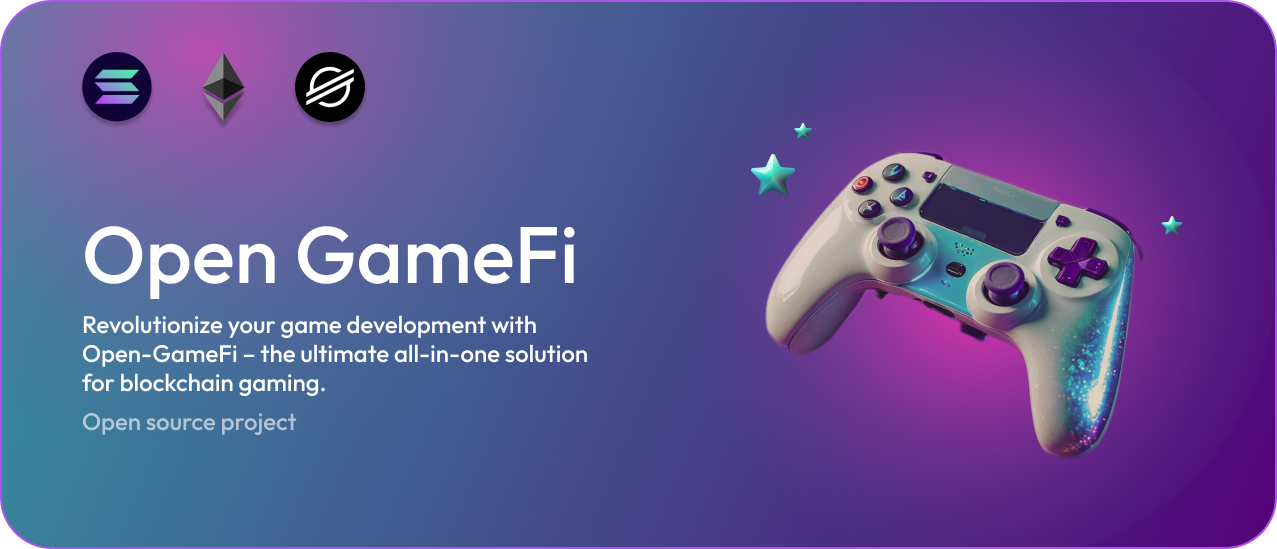
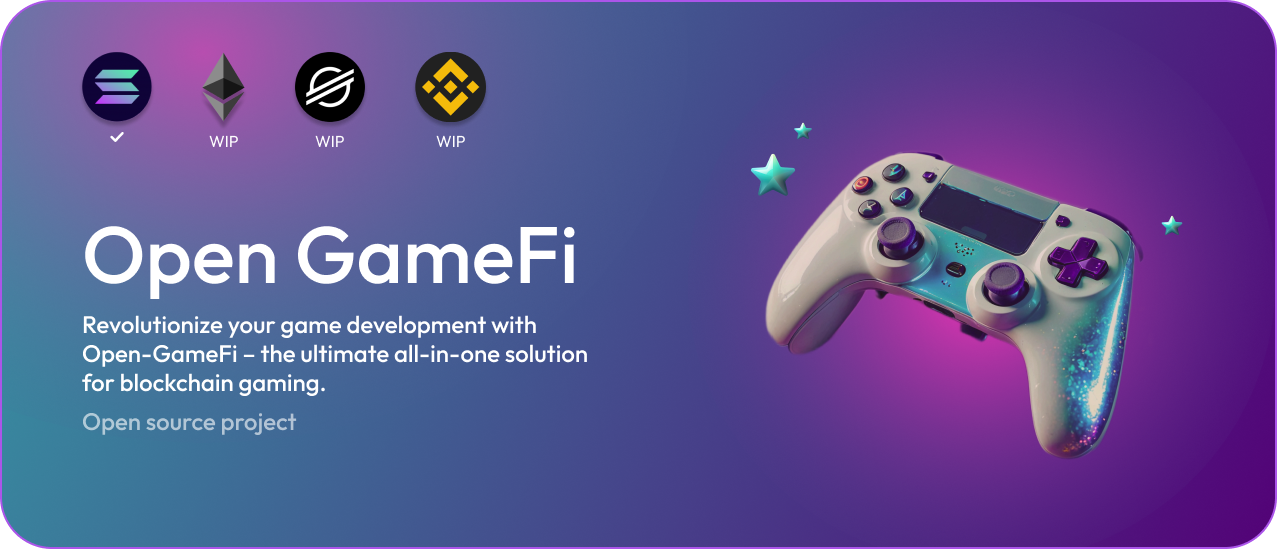
Updated readme

Changed region(s): [[0.3054, 0.0929, 0.397, 0.2787], [0.2443, 0.2477, 0.2749, 0.2787], [0.1527, 0.2477, 0.1832, 0.2787]]

diff --git a/stellar-pack/stellar-back/src/rooms/MainRoom.ts b/stellar-pack/stellar-back/src/rooms/MainRoom.ts
@@ -77,7 +77,10 @@ export class MainRoom extends Room<MainRoomState> {
                         const now = new Date();
                         userState.currency += Math.ceil(((now.getTime() - userState.user.lastPresence.getTime())/1000) * (userState.generators) * (1 + userState.user.reward));
                         userState.user.lastPresence = now;
-                        userState.user.nft = (await getNftBalance(userToLogin.secretId, process.env.NFT)) > 0;
+                        if (process.env.NFT_ON == "true")
+                            userState.user.nft = (await getNftBalance(userToLogin.secretId, process.env.NFT)) > 0;
+                        else
+                            userState.user.nft = false;
                         await saveUserToDb(userState.user);
                         client.send("connectWallet",{
                             publicKey: userToLogin.publicId,

diff --git a/README.md b/README.md
@@ -1,112 +1,32 @@
 ![alt text](https://github.com/yanis7774/Open-GameFi/blob/main/misc/GameFiBanner.png?raw=true)
 ![alt text](https://github.com/yanis7774/Open-GameFi/blob/main/misc/textBanner.png?raw=true)
 
-# Setup
-To setup, you need to do the following:
+# Open GameFi
 
-- Deploy main contract
-- Deploy token contract (if custom token is needed)
-- Launch backend
+Welcome to the Open-GameFi repository! This collection is your gateway to building and deploying decentralized game applications across multiple blockchain networks. Whether you're a seasoned developer or just starting your journey in the world of blockchain, our starter kit offers diverse project examples tailored to various networks, all neatly organized within this repository.
 
-## Prerequisites
+## What's Inside?
 
-Ensure you have the following software installed on your system:
+Explore a variety of project examples, each housed in its own folder, showcasing the unique features and capabilities of different blockchain networks. From Ethereum to Solana, and everything in between, we've got you covered with practical examples to kickstart your development process. 
 
-- [Node.js](https://nodejs.org/en/download/) (v14.x or later)
-- [Rust](https://www.rust-lang.org/tools/install)
-- [Soroban CLI](https://soroban.stellar.org/docs/getting-started/installation)
-- [Stellar CLI](https://developers.stellar.org/docs/stellar-core/software/stellar-core/)
-- [Git](https://git-scm.com/)
-- [MongoDB](https://www.mongodb.com/try/download/community)
+## Get Started
 
-## Getting Started
+Dive into the folders to find the blockchain network that suits your project needs. Follow the README in each folder to set up and run your example project.
 
-### Clone the Repository
+## Curreny blockchain readiness
 
-Clone the repository
-```bash
-git clone <https://github.com/yanis7774/Open-GameFi.git>
-cd <Open-GameFi>
-```
+Some blockchains are currently in active development and will be available later.
 
-### Install backend
+- Stellar: Ready!
+- Solana: WIP
+- Ethereum: WIP
+- Polygon: WIP
+- BNB: WIP
+
+## NPM module
+
+This repository also contains an NPM module used by all project examples across different blockchain networks. It is the main moving part of the starter-kit. After learning how examples work, you can transfer most of the functions packed in Game-Fi by simply importing the open-gamefi module.
 
 ```bash
-cd stellar-back
-npm install
+npm i open-gamefi
 ```
-
-Create an .env file in the backend directory. Add the required environment variables, following the .env.default in the same folder
-Backend can be run with
-
-```bash
-npm run start
-```
-
-Backend server is used for authorization, generating new Stellar wallets and initiating operations with main contract
-
-### Install frontend
-
-To install and run a React App example for interacting with backend server, use from root folder:
-
-```bash
-cd stellar-wallet
-npm install
-npm run start
-```
-
-Frontend example is a simple app, that calls for backend functions
-
-### Deploying contracts
-
-There are 2 contracts in this repo, base contract with deposit, withdraw, balance functions and a token contract.
-If not using XLM, deploy the custom token contract, otherwise you may ignore it.
-
-To deploy the contract, use the following commands in contract folders:
-
-```bash
-stellar contract build
-
-stellar contract deploy \
-  --wasm target/wasm32-unknown-unknown/release/<CONTRACT_NAME>.wasm \
-  --source <YOUR STELLAR SECRET KEY> \
-  --network testnet
-```
-
-Token contract's name is "soroban_token_contract", main contract is "hello_world". You can get a stellar account (public and secret key)
-on [Stellar Laboratory](https://laboratory.stellar.org/#account-creator?network=public)
-
-After deploying the token contract, you need to invoke an initialization function to initialize the token:
-
-```bash
-stellar contract invoke \
-  --id <CONTRACT_ID> \
-  --source <YOUR STELLAR SECRET KEY> \
-  --network testnet \
-  -- \
-  initialize \
-  --admin <ADMIN PUBLIC STELLAR KEY> \
-  --decimal <DECIMEL AMOUNT, UP TO 18> \
-  --name <TOKEN NAME> \
-  --symbol <TOKEN SYMBOL>
-```
-
-Then you can mint some amount to any wallet:
-
-```bash
-stellar contract invoke \
-  --id <CONTRACT_ID> \
-  --source <YOUR STELLAR SECRET KEY> \
-  --network testnet \
-  -- \
-  mint \
-  --to <WALLET TO RECEIVE TOKENS> \
-  --amount <AMOUNT TO MINT>
-```
-
-Token and main contracts' ids should be transferred in .env of backend part
-
-## Next Steps
-
-Check out readmes inside of backend, frontend and contract folders for further details and information
-To deploy outside of testnet, change all testnet in bash commands above for desired network.

diff --git a/stellar-pack/README.md b/stellar-pack/README.md
@@ -1,0 +1,114 @@
+# Setup
+To setup, you need to do the following:
+
+- Deploy main contract
+- Deploy token contract (if custom token is needed)
+- Launch backend
+
+## Prerequisites
+
+Ensure you have the following software installed on your system:
+
+- [Node.js](https://nodejs.org/en/download/) (v14.x or later)
+- [Rust](https://www.rust-lang.org/tools/install)
+- [Soroban CLI](https://soroban.stellar.org/docs/getting-started/installation)
+- [Stellar CLI](https://developers.stellar.org/docs/stellar-core/software/stellar-core/)
+- [Git](https://git-scm.com/)
+- [MongoDB](https://www.mongodb.com/try/download/community)
+
+Everything must be properly installed and setup for this starter-kit to work.
+
+## Getting Started
+
+### Clone the Repository
+
+Clone the repository
+```bash
+git clone <https://github.com/yanis7774/Open-GameFi.git>
+cd <Open-GameFi>
+```
+
+### Deploying contracts
+
+There are 2 contracts in this repo, base contract with deposit, withdraw, balance functions and a token contract.
+If not using XLM, deploy the custom token contract, otherwise you may ignore it. There is also an NFT checker function,
+you can make an NFT contract by making another custom token contract, minting some amount of token and then locking
+the issuing account. NFT checker function can be turned off in .env file (described further)
+
+To deploy the contract, use the following commands in contract folders:
+
+```bash
+stellar contract build
+
+stellar contract deploy \
+  --wasm target/wasm32-unknown-unknown/release/<CONTRACT_NAME>.wasm \
+  --source <YOUR STELLAR SECRET KEY> \
+  --network testnet
+```
+
+Token contract's name is "soroban-token-contract", main contract is "main-contract". You can get a stellar account (public and secret key)
+on [Stellar Laboratory](https://laboratory.stellar.org/#account-creator?network=public)
+
+After deploying the token contract, you need to invoke an initialization function to initialize the token:
+
+```bash
+stellar contract invoke \
+  --id <CONTRACT_ID> \
+  --source <YOUR STELLAR SECRET KEY> \
+  --network testnet \
+  -- \
+  initialize \
+  --admin <ADMIN PUBLIC STELLAR KEY> \
+  --decimal <DECIMEL AMOUNT, UP TO 18> \
+  --name <TOKEN NAME> \
+  --symbol <TOKEN SYMBOL>
+```
+
+Then you can mint some amount to any wallet:
+
+```bash
+stellar contract invoke \
+  --id <CONTRACT_ID> \
+  --source <YOUR STELLAR SECRET KEY> \
+  --network testnet \
+  -- \
+  mint \
+  --to <WALLET TO RECEIVE TOKENS> \
+  --amount <AMOUNT TO MINT>
+```
+
+Token and main contracts' ids should be transferred in .env of backend part
+
+### Install and run backend
+
+Run from backend folder:
+
+```bash
+npm install
+```
+
+Create an .env file in the backend directory. Add the required environment variables, following the .env.default in the same folder
+It also has an option for NFT checker, you can ignore NFT address and this mechanic as a whole by changing this option.
+Backend can be run with
+
+```bash
+npm run start
+```
+
+Backend server is used for authorization, generating new Stellar wallets and initiating operations with main contract
+
+### Install and run frontend
+
+To install and run a React App example for interacting with backend server, use from frontend folder:
+
+```bash
+npm install
+npm run start
+```
+
+Frontend example is a simple app, that calls for backend functions
+
+## Next Steps
+
+Check out readmes inside of backend, frontend and contract folders for further details and information
+To deploy outside of testnet, change all testnet in bash commands above for desired network.

diff --git a/stellar-pack/stellar-back/README.md b/stellar-pack/stellar-back/README.md
@@ -11,6 +11,8 @@ MongoDb connection is handled using repos and mikroORM
 
 This class contains main functions to create, store users and then call the main contract using their keys.
 Most of the messages responding contains a system message, that can be shown in logs or on screen.
+Logged in users' info is stored in MainRoomState. It also has an idle game variables
+
 List of messages contains:
 
 - register: gets login and password, creates a new user, new stellar account starting with a mnemonic phrase,
@@ -21,6 +23,25 @@ contract balance and mnemonic phrase.
 - connectWallet: same as createWallet, but does not generate, instead uses mnemonic phrase to restore account
 - payService: updates public wallet for sending XLM
 - deposit, withdraw, reward Wallet: calls these functions for main contract, using incoming keys
+- click, buyGenerator: this is main idle game commands, click gives +1 to currency of player, while
+buyGenerator spends currency and gives +1 generator to player
+
+At the creating of Main Room, an interval is launched. It gives players with generators some currency each
+second. This is a part of the idle game mechanics.
+
+There is also a separate function that calculates the cost of the next generator (which rises exponentially).
+
+### Idle Game
+
+Idle game is very simple. Player can click a button to gain +1 currency. Player can spend 10 (by default)
+currency to get +1 generator. Each generator gives +1 currency a second. There is a block of code at
+onJoin and onLeave that helps storing all this data in db without constantly calling it. It also checks
+away from game time through lastPresence field to give player currency for his away time.
+
+There is also 2 systems that connect blockchain smart contracts to gameplay: NFT and rewards. Reward system
+checks how many rewards are bought on the main contract, each reward multiplies clicking and generator
+income. NFT system checks if user has a particular NFT (at least 1) and boosts clicking income by the
+generator amount.
 
 ### Database
 

diff --git a/stellar-pack/stellar-wallet/README.md b/stellar-pack/stellar-wallet/README.md
@@ -28,12 +28,15 @@ App has following blocks:
 - Create Wallet: has interface to show current public, secret, mnemonic keys and balance on the main contract.
 create wallet also has a create wallet button, that generates a new stellar account without saving it anywhere
 - Connect Wallet: has 3 buttons for operating main contract: deposit, withdraw and reward. Also shows a QR code version of current public key
+- IdlePart: has 2 interactive buttons for idle game: click increases currency and generator spends currency to give +1 generator. Logic for this
+is given in backend section. Here all the info is shown for the game results.
 - Pay Wallet: shows a QR code of current address, where XLM can be send to for some purpose
 - ListenerInitializer: adds room listener, that is described in Room Provider section
 
 ### User/Wallet
 
-This contexts have a set of variables for storing during a session. Current keys, login, system messages, balance and other data
+This contexts have a set of variables for storing during a session. Current keys, login, system messages, balance and other data.
+User context also stores data for Idle Game (accumulated currency, generators, rewards and if NFT is active right now).
 
 ### Room Provider
 

diff --git a/open-gamefi-module/README.md b/open-gamefi-module/README.md
@@ -1,1 +1,15 @@
-# open-gamefi-module
+# Open-GameFi
+![alt text](https://i.ibb.co/q07bLzZ/Game-Fi-Banner.png)
+![alt text](https://i.ibb.co/6yq1TNB/text-Banner.png)
+
+# Game-Fi Setup
+
+Welcome to the Open-Gamefi module! This module is used by [Open-Gamefi starter kit](https://github.com/yanis7774/Open-GameFi). It can be used separately after introduction through different examples in the main repository. Open-GameFi is a gateway to building and deploying decentralized game applications across multiple blockchain networks. Whether you're a seasoned developer or just starting your journey in the world of blockchain, our starter kit offers diverse project examples tailored to various networks, all neatly organized within the main Open-GameFi repository.
+
+## Setup
+
+It is the main moving part of the Open-GameFi starter-kit. After learning how examples work, you can transfer most of the functions packed in Game-Fi by simply importing the open-gamefi module.
+
+```bash
+npm i open-gamefi
+```

diff --git a/stellar-pack/soroban-project/soroban-contracts/README.md b/stellar-pack/soroban-project/soroban-contracts/README.md
@@ -8,6 +8,8 @@ guide to learn how to deploy them.
 ## Token contract
 
 Can be used to create a custom token for operations in main contract. Installation is described in main README file.
+This contract can also be used as NFT contract. Mint needed amount of tokens, then lock the issuing account to make
+a limited supply NFT.
 
 ## Main contract
 
